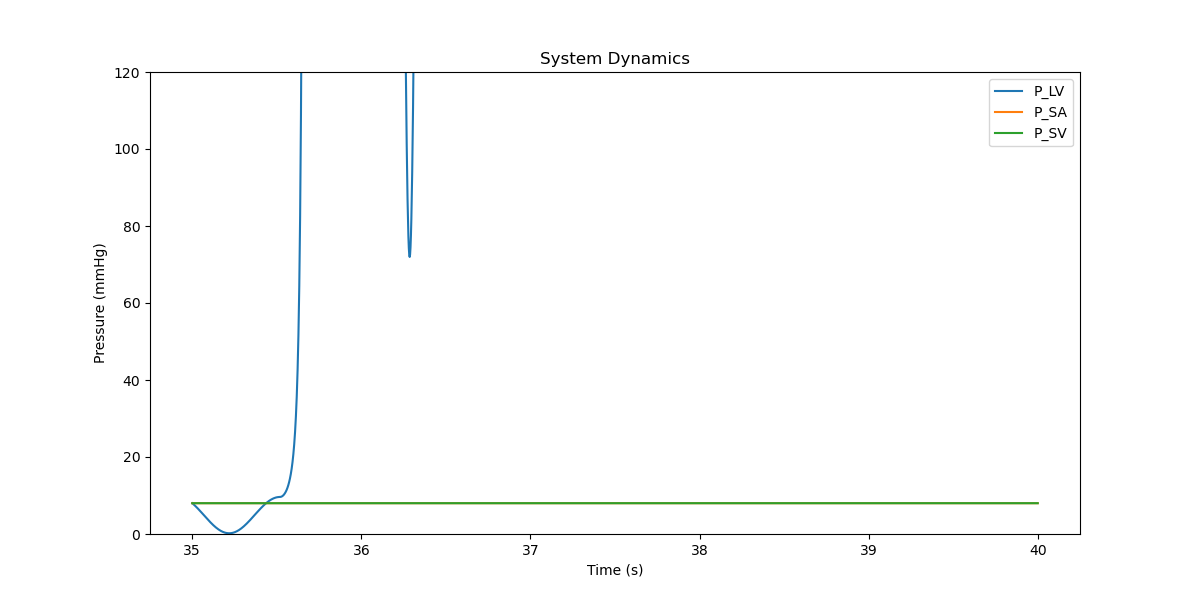
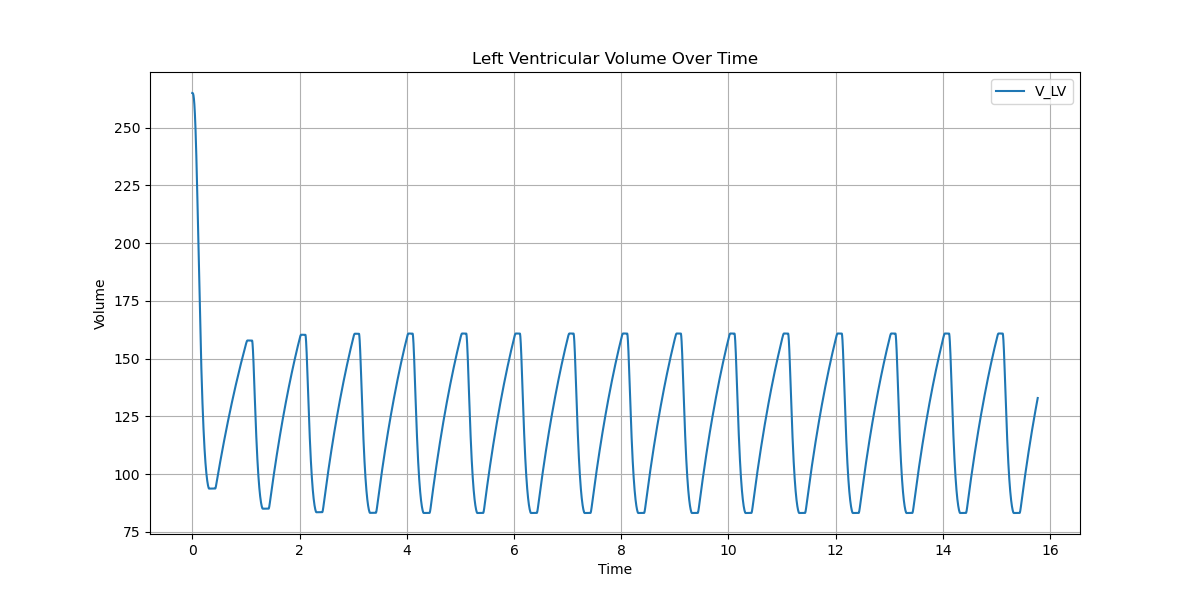
could be the model???

diff --git a/left.py b/left.py
@@ -1,16 +1,10 @@
 import numpy as np
-from assimulo.problem import Implicit_Problem
-from assimulo.solvers import IDA
-from assimulo.solvers.sundials import IDA
-from assimulo import solvers
 import matplotlib.pyplot as plt
-import random
+from assimulo.problem import Implicit_Problem
+from assimulo.solvers.sundials import IDA
+import math
 
-# Define global variables for event handling
-n = 0  # Cycle counter
-tr = 0.0  # Reference time for the current cycle
-
-# Valve function
+# Valve function remains the same
 def Valve(R, deltaP):
     if -deltaP < 0.0:
         q = deltaP / R
@@ -18,158 +12,169 @@ def Valve(R, deltaP):
         q = 0.0
     return q
 
-# ShiElastance function
-def ShiElastance(t, E_min, E_max, tau, tau_es, tau_ep, Eshift, tr):
-    t_i = t - tr
-    if t_i <= tau_es:
-        E_p = (1 - np.cos(t_i / tau_es * np.pi)) / 2
-    elif t_i <= tau_ep:
-        E_p = (1 + np.cos((t_i - tau_es) / (tau_ep - tau_es) * np.pi)) / 2
-    else:
-        E_p = 0.0
-    E = E_min + (E_max - E_min) * E_p
-    return E
+# Define the model class
+class CardiovascularModel:
+    def __init__(self, u0, udot0, p, t_τL):
+        self.p = p
+        self.t_τL = t_τL
+        self.τ = t_τL[0]
+        self.tr = 0.0
+        self.n = 0  # Counter for events
+        self.u0 = u0
+        self.udot0 = udot0
+        self.Eshift = 0.0
+        self.cycle_phase = "systole"  # Start with systole
 
-# DShiElastance function (Derivative of ShiElastance)
-def DShiElastance(t, E_min, E_max, tau, tau_es, tau_ep, Eshift, tr):
-    t_i = t - tr
-    if t_i <= tau_es:
-        DE_p = (np.pi / tau_es) * np.sin(t_i / tau_es * np.pi) / 2
-    elif t_i <= tau_ep:
-        DE_p = (np.pi / (tau_ep - tau_es)) * np.sin((tau_es - t_i) / (tau_ep - tau_es) * np.pi) / 2
-    else:
-        DE_p = 0.0
-    DE = (E_max - E_min) * DE_p
-    return DE
+    # Residual function for IDA
+    def res(self, t, y, ydot):
+        pLV, psa, psv, Vlv, Qav, Qmv, Qs = y
+        τ_es, τ_ep, Rmv, Zao, Rs, Csa, Csv, E_max, E_min = self.p
+        E_t = self.ShiElastance(t, E_min, E_max, self.τ, τ_es, τ_ep, self.Eshift)
+        DE_t = self.DShiElastance(t, E_min, E_max, self.τ, τ_es, τ_ep, self.Eshift)
 
-# Heart Rate Variability function
+        res = np.zeros_like(y)
+        res[0] = ydot[0] - ((Qmv - Qav) * E_t + pLV / E_t * DE_t)
+        res[1] = ydot[1] - (Qav - Qs) / Csa
+        res[2] = ydot[2] - (Qs - Qmv) / Csv
+        res[3] = ydot[3] - (Qmv - Qav)
+        res[4] = Qav - Valve(Zao, pLV - psa)
+        res[5] = Qmv - Valve(Rmv, psv - pLV)
+        res[6] = ydot[6] - (ydot[1] - ydot[2]) / Rs
+        return res
+
+    # ShiElastance function as a method
+    def ShiElastance(self, t, E_min, E_max, τ, τ_es, τ_ep, Eshift):
+        t_i = (t - self.tr) % τ  # Modulus to keep t within the current cycle period
+        if t_i <= τ_es:
+            E_p = (1 - np.cos(t_i / τ_es * np.pi)) / 2
+        elif t_i <= τ_ep:
+            E_p = (1 + np.cos((t_i - τ_es) / (τ_ep - τ_es) * np.pi)) / 2
+        else:
+            E_p = 0.0
+        E = E_min + (E_max - E_min) * E_p
+        return E
+
+    # Derivative of ShiElastance as a method
+    def DShiElastance(self, t, E_min, E_max, τ, τ_es, τ_ep, Eshift):
+        t_i = (t - self.tr) % τ  # Modulus to keep t within the current cycle period
+        if t_i <= τ_es:
+            dE_p = (np.pi / τ_es) * np.sin(t_i / τ_es * np.pi) / 2
+        elif t_i <= τ_ep:
+            dE_p = - (np.pi / (τ_ep - τ_es)) * np.sin((t_i - τ_es) / (τ_ep - τ_es) * np.pi) / 2
+        else:
+            dE_p = 0.0
+        dE = (E_max - E_min) * dE_p
+        return dE
+
+    # Event function to update τ and tr
+    def handle_event(self, solver, event_info):
+        """
+        Handles events detected by the root function.
+        Updates the cardiac cycle phase, elastance parameters, and time reference.
+        """
+        self.n += 1
+
+        if self.cycle_phase == "systole":
+            # Switch to diastole
+            self.cycle_phase = "diastole"
+            # Update reference time for diastole
+            self.tr = solver.t
+            # Update parameters for relaxation (change elastance accordingly)
+        elif self.cycle_phase == "diastole":
+            # Switch to systole
+            self.cycle_phase = "systole"
+            if self.n + 1 < len(self.t_τL):
+                # Update tr and τ for next systolic event
+                self.τ = self.t_τL[self.n + 1] - self.t_τL[self.n]
+                self.tr = self.t_τL[self.n]
+            else:
+                # No more events, end the simulation
+                solver.terminate = True
+
+    def root(self, t, y, ydot):
+        """
+        Detects events that correspond to changes in the cardiac cycle.
+        Specifically detects when to switch between systole and diastole.
+        """
+        if self.cycle_phase == "systole":
+            # Event to detect the end of systole (e.g., when elastance reaches max)
+            return t - (self.tr + self.τ)
+        elif self.cycle_phase == "diastole":
+            # Event to detect the end of diastole (e.g., when filling ends)
+            return t - (self.tr + self.τ)
+        return 0.0  # This should return values that cross zero during the transitions
+
+
+# Define the parameters
+p = np.array([0.3, 0.45, 0.06, 0.033, 1.11, 1.13, 11.0, 1.5, 0.03])
+
+# Generate the heart rate variability times
 def HRV(c):
-    t_tauL = np.zeros(c)
-    t_tauL[0] = random.uniform(0.8, 1.1)
-    for i in range(1, c):
-        t_tauL[i] = t_tauL[i-1] + random.uniform(0.8, 1.1)
-    return t_tauL
+    t_τL = np.zeros(c)
+    t_τL[0] = np.random.uniform(0.8, 1.1)
+    for i in range(c - 1):
+        t_τL[i + 1] = t_τL[i] + np.random.uniform(0.8, 1.1)
+    return t_τL
 
-# NIK function (DAE system)
-def NIK(t, y, yd, p):
-    pLV, psa, psv, Vlv, Qav, Qmv, Qs = y
-    pLV_dot, psa_dot, psv_dot, Vlv_dot, Qav_dot, Qmv_dot, Qs_dot = yd
-    
-    tau_es, tau_ep, Rmv, Zao, Rs, Csa, Csv, E_max, E_min, Eshift, tr, tau = p
-    
-    E = ShiElastance(t, E_min, E_max, tau, tau_es, tau_ep, Eshift, tr)
-    DE = DShiElastance(t, E_min, E_max, tau, tau_es, tau_ep, Eshift, tr)
-    
-    res = np.zeros(7)
-    # Differential equations
-    res[0] = pLV_dot - ((Qmv - Qav) * E + (pLV / E) * DE)
-    res[1] = psa_dot - ((Qav - Qs) / Csa)
-    res[2] = psv_dot - ((Qs - Qmv) / Csv)
-    res[3] = Vlv_dot - (Qmv - Qav)
-    # Algebraic equations (Valve flows)
-    res[4] = Qav - Valve(Zao, pLV - psa)
-    res[5] = Qmv - Valve(Rmv, psv - pLV)
-    # Additional differential equation
-    res[6] = Qs_dot - ((psa_dot - psv_dot) / Rs)
-    return res
+c = 16
+t_τL = HRV(c)
 
 # Initial conditions
-u0 = [8.0, 8.0, 8.0, 265.0, 0.0, 0.0, 0.0]
-udot0 = [0.0]*7  # Initial derivatives
+u0 = np.array([8.0, 8.0, 8.0, 265.0, 0.0, 0.0, 0.0])
+udot0 = np.zeros(7)  # Initial derivatives
 
-# Parameters
-tau_es = 0.3
-tau_ep = 0.45
-Rmv = 0.06
-Zao = 0.033
-Rs = 1.11
-Csa = 1.13
-Csv = 11.0
-E_max = 1.5
-E_min = 0.03
-Eshift = 0.0
-
-# Generate heart rate variability
-c = 16
-t_tauL = HRV(c)
-tau = t_tauL[0]
-
-# Event handling variables
-n = 0  # Cycle counter
-tr = 0.0  # Reference time
+# Initialize the model
+model = CardiovascularModel(u0, udot0, p, t_τL)
 
 # Create the problem instance
-p = [tau_es, tau_ep, Rmv, Zao, Rs, Csa, Csv, E_max, E_min, Eshift, tr, tau]
-model = Implicit_Problem(NIK, u0, udot0, 0.0, p)
-model.name = 'Cardiovascular Model'
+problem = Implicit_Problem(model.res, u0, udot0, 0.0)
+problem.name = 'Cardiovascular Model with Events'
 
-# Specify the mass matrix
-M = np.diag([1.0, 1.0, 1.0, 1.0, 0.0, 0.0, 1.0])
-model.mass_matrix = M
+# Set the root function and event handler
+problem.root = model.root
+problem.handle_event = model.handle_event
+
+# Set the number of roots (events)
+problem.nroots = 1
 
 # Set up the solver
-sim = IDA(model)
-sim.atol = [1e-8]*7
-sim.rtol = 1e-8
-sim.suppress_alg = True  # Suppress algebraic variables in error control
-sim.algvar = [1, 1, 1, 1, 0, 0, 1]  # Specify algebraic variables
+solver = IDA(problem)
+solver.report_continuously = True
+solver.atol = 1e-8
+solver.rtol = 1e-8
+solver.maxord = 5
 
-# Event function
-def event_func(t, y, yd, switch):
-    return t - (tr + tau)
+# Simulate
+tfinal = t_τL[-1] + 0.1  # Ensure simulation covers all events
+t, y, yd = solver.simulate(tfinal)
 
-# Handle event function
-def handle_event(solver, event_info):
-    global n, tau, tr, p
-    n += 1
-    if n+1 < len(t_tauL):
-        tau_new = t_tauL[n] - t_tauL[n-1]
-        tau = tau_new
-        tr = t_tauL[n]
-        # Update parameters in the problem
-        solver.problem.p[-2] = tr  # Update tr in parameters
-        solver.problem.p[-1] = tau  # Update tau in parameters
-    else:
-        # No more cycles, stop integration
-        solver.terminate = True
-options = sim.get_options()
-options['terminate'] = False
-options['direction'] = 1  # Positive direction
-options['eventtol'] = 1e-8
-options['event_max_iterations'] = 100
-options['max_events'] = 10000
+# Extract variables
+pLV = y[:, 0]
+psa = y[:, 1]
+psv = y[:, 2]
+Vlv = y[:, 3]
+Qav = y[:, 4]
+Qmv = y[:, 5]
+Qs = y[:, 6]
 
-sim.handle_event = handle_event
-sim.event = event_func
-
-# Simulation settings
-tfinal = 15.0
-ncp = 1500  # Number of communication points
-t, y, yd = sim.simulate(tfinal, ncp)
-
-# Plotting the results
-t = np.array(t)
-y = np.array(y)
-
+# Plot pressures
 plt.figure(figsize=(12, 6))
-plt.plot(t, y[:, 0], label='P_LV')
-plt.plot(t, y[:, 1], label='P_SA')
-plt.plot(t, y[:, 2], label='P_SV')
-plt.xlabel('Time [s]')
-plt.ylabel('Pressure [mmHg]')
+plt.plot(t, pLV, label='P_LV')
+plt.plot(t, psa, label='P_SA')
+plt.plot(t, psv, label='P_SV')
+plt.xlabel('Time')
+plt.ylabel('Pressure')
+plt.title('Pressures Over Time')
 plt.legend()
-plt.title('Pressure vs. Time')
 plt.grid(True)
 plt.show()
 
+# Plot left ventricular volume
 plt.figure(figsize=(12, 6))
-plt.plot(t, y[:, 3], label='V_LV')
-plt.xlabel('Time [s]')
-plt.ylabel('Volume [ml]')
+plt.plot(t, Vlv, label='V_LV')
+plt.xlabel('Time')
+plt.ylabel('Volume')
+plt.title('Left Ventricular Volume Over Time')
 plt.legend()
-plt.title('Left Ventricular Volume vs. Time')
 plt.grid(True)
 plt.show()
-print(dir(IDA))
-print(dir(solvers))
-

diff --git a/leftVentricle.py b/leftVentricle.py
@@ -17,7 +17,8 @@ def shi_elastance(t, E_min, E_max, τ, τ_es, τ_ep, Eshift):
     global tr
     t_i = math.remainder(t + (1 - Eshift) * τ, τ)
     E_p = (t_i <= τ_es) * (1 - np.cos(t_i / τ_es * np.pi)) / 2 + \
-          ((t_i > τ_es) & (t_i <= τ_ep)) * (1 + np.cos((t_i - τ_es) / (τ_ep - τ_es) * np.pi)) / 2
+          ((t_i > τ_es) & (t_i <= τ_ep)) * (1 + np.cos((t_i - τ_es) / (τ_ep - τ_es) * np.pi)) / 2 \
+          + (t_i <= τ_ep)
     E = E_min + (E_max - E_min) * E_p
     return E
 